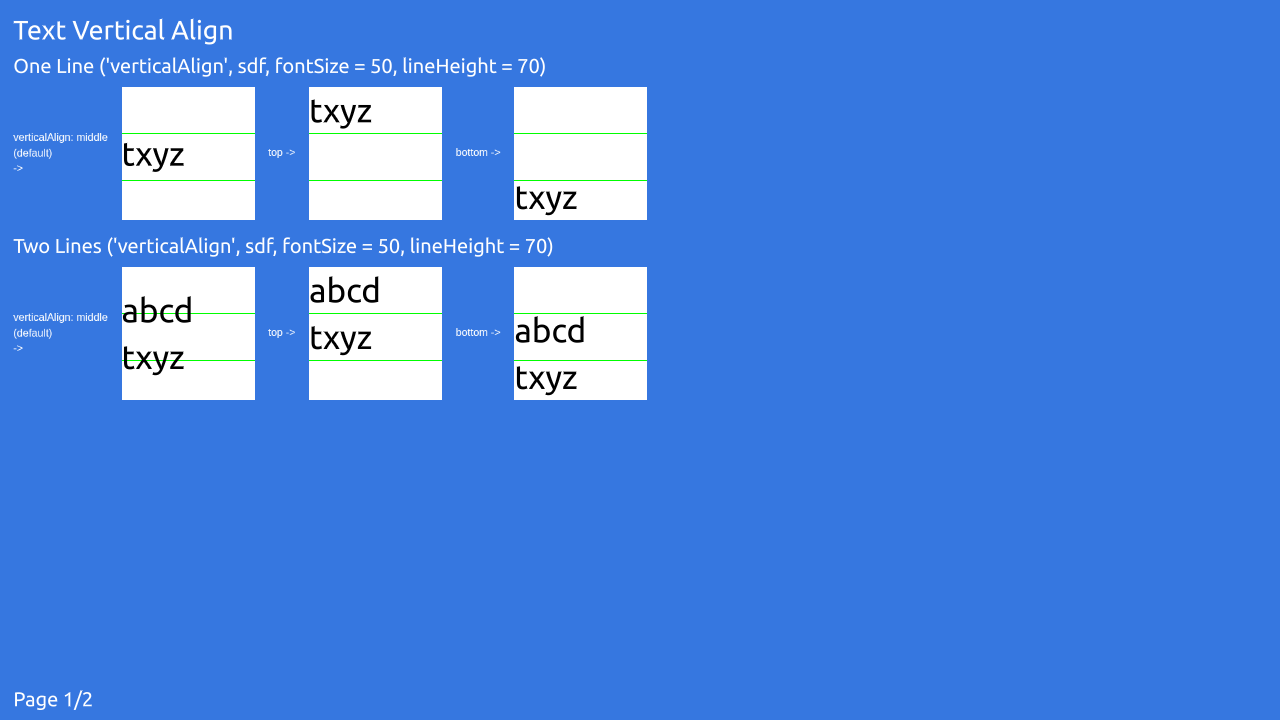
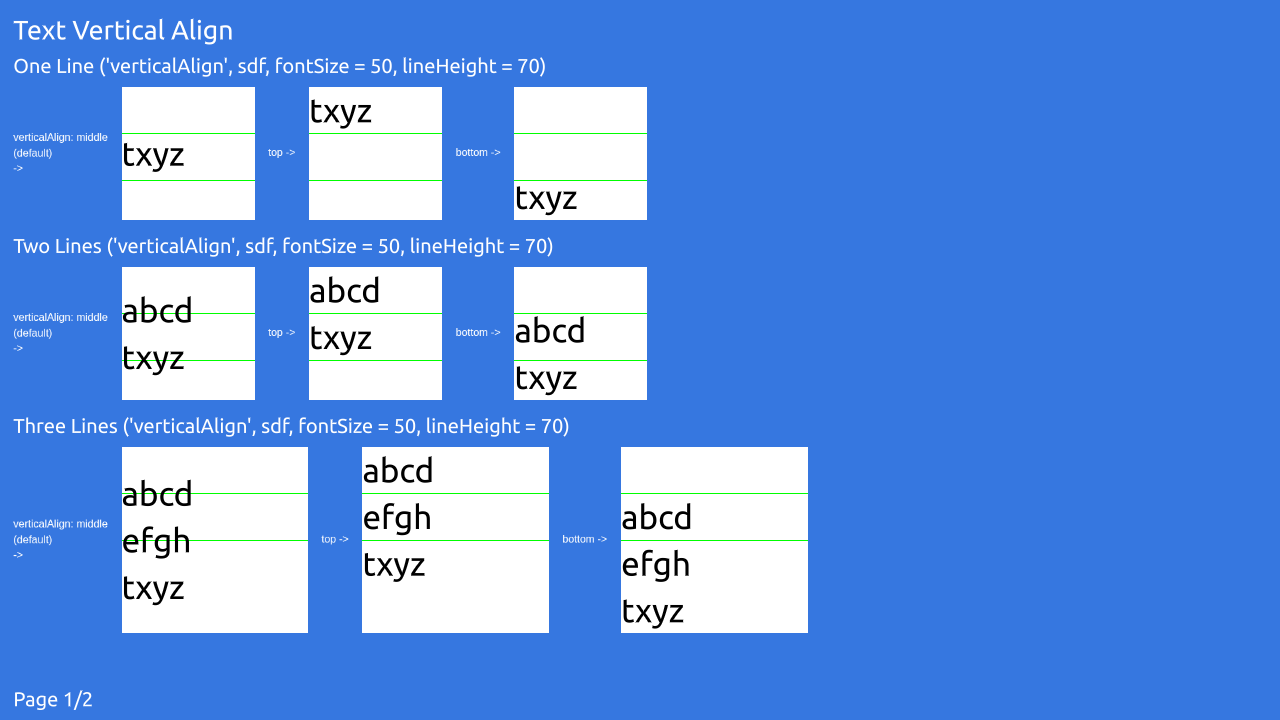
fix(text): activate verticalAlign on maxHeight alone (#28)
verticalAlign was silently ignored unless `contain` included height — so
setting `verticalAlign: 'middle'` on a node with only `maxHeight` did
nothing. Split the gating: verticalAlign now activates whenever
maxHeight > 0, while the mountY-against-maxHeight override stays tied
to `contain & height` (preserving existing mount semantics).

Also fix the stale `Not yet implemented in the SDF renderer` docstring
on the verticalAlign prop — CoreTextNode handles both backends — and
correct the documented default (Stage.ts resolves to 'top'). Adds a
3-line row to the visual regression matrix to cover first/last-line
asymmetry.

Changed region(s): [[0.0, 0.5806, 0.6562, 0.8861]]

diff --git a/examples/tests/text-vertical-align.ts b/examples/tests/text-vertical-align.ts
@@ -39,26 +39,40 @@ const NODE_PROPS = {
 } satisfies Partial<ITextNodeProps>;
 
 const CONTAINER_SIZE = 200;
+const CONTAINER_SIZE_3L = 280;
 
-function getSquare(renderer: RendererMain, node: ITextNode) {
+function getSquare(
+  renderer: RendererMain,
+  node: ITextNode,
+  size = CONTAINER_SIZE,
+) {
   const wrapper = renderer.createNode({
-    w: CONTAINER_SIZE,
-    h: CONTAINER_SIZE,
+    w: size,
+    h: size,
   });
   const line1 = renderer.createNode({
-    w: CONTAINER_SIZE,
+    w: size,
     h: 1,
     color: 0x00ff00ff,
     y: NODE_PROPS.lineHeight,
   });
   line1.parent = wrapper;
   const line2 = renderer.createNode({
-    w: CONTAINER_SIZE,
+    w: size,
     h: 1,
     color: 0x00ff00ff,
     y: NODE_PROPS.lineHeight * 2,
   });
   line2.parent = wrapper;
+  if (size >= NODE_PROPS.lineHeight * 3) {
+    const line3 = renderer.createNode({
+      w: size,
+      h: 1,
+      color: 0x00ff00ff,
+      y: NODE_PROPS.lineHeight * 3,
+    });
+    line3.parent = wrapper;
+  }
   node.parent = wrapper;
   return wrapper;
 }
@@ -142,6 +156,49 @@ function generateVerticalAlignTest(
             }),
           ),
         ]);
+      },
+    },
+    {
+      title: `Three Lines ('verticalAlign', ${textRenderer}, fontSize = 50, lineHeight = 70)`,
+      content: async (rowNode) => {
+        const nodeProps = {
+          ...NODE_PROPS,
+          text: 'abcd\nefgh\ntxyz',
+          textRendererOverride: textRenderer,
+          contain: 'height',
+          maxHeight: CONTAINER_SIZE_3L,
+        } satisfies Partial<ITextNodeProps>;
+
+        const baselineNode = renderer.createTextNode({
+          ...nodeProps,
+          verticalAlign: 'middle',
+        });
+
+        return await constructTestRow(
+          { renderer, rowNode, containerSize: CONTAINER_SIZE_3L },
+          [
+            'verticalAlign: middle\n(default)\n->',
+            getSquare(renderer, baselineNode, CONTAINER_SIZE_3L),
+            'top ->',
+            getSquare(
+              renderer,
+              renderer.createTextNode({
+                ...nodeProps,
+                verticalAlign: 'top',
+              }),
+              CONTAINER_SIZE_3L,
+            ),
+            'bottom ->',
+            getSquare(
+              renderer,
+              renderer.createTextNode({
+                ...nodeProps,
+                verticalAlign: 'bottom',
+              }),
+              CONTAINER_SIZE_3L,
+            ),
+          ],
+        );
       },
     },
   ] satisfies TestRow[];

diff --git a/src/core/CoreTextNode.ts b/src/core/CoreTextNode.ts
@@ -144,13 +144,16 @@ export class CoreTextNode extends CoreNode implements CoreTextNodeProps {
         }
         mountTranslateX = mountX * maxWidth;
       }
-      if (contain & TextConstraint.height && maxHeight > 0) {
-        if (verticalAlign === 'bottom') {
-          containY = maxHeight - h;
-        } else if (verticalAlign === 'middle') {
-          containY = (maxHeight - h) * 0.5;
-        }
+      if (contain & TextConstraint.height && hasMaxHeight === true) {
         mountTranslateY = mountY * maxHeight;
+      }
+    }
+
+    if (hasMaxHeight === true) {
+      if (verticalAlign === 'bottom') {
+        containY = maxHeight - h;
+      } else if (verticalAlign === 'middle') {
+        containY = (maxHeight - h) * 0.5;
       }
     }
 

diff --git a/src/core/text-rendering/TextRenderer.ts b/src/core/text-rendering/TextRenderer.ts
@@ -231,13 +231,15 @@ export interface TrProps extends TrFontProps {
    */
   maxLines: number;
   /**
-   * Vertical Align for text when lineHeight > fontSize
+   * Vertical alignment of the text block within `maxHeight`.
    *
    * @remarks
-   * This property sets the vertical align of the text.
-   * Not yet implemented in the SDF renderer.
+   * Activates when `maxHeight > 0`. Composes with `textBaselineMode`
+   * (per-line anchor). CSS line-box semantics — `'top'` leaves
+   * half-leading above the first line's cap-top; `'bottom'` leaves
+   * half-leading below the last line's descender.
    *
-   * @default middle
+   * @default top
    */
   verticalAlign: TextVerticalAlign;
   /**